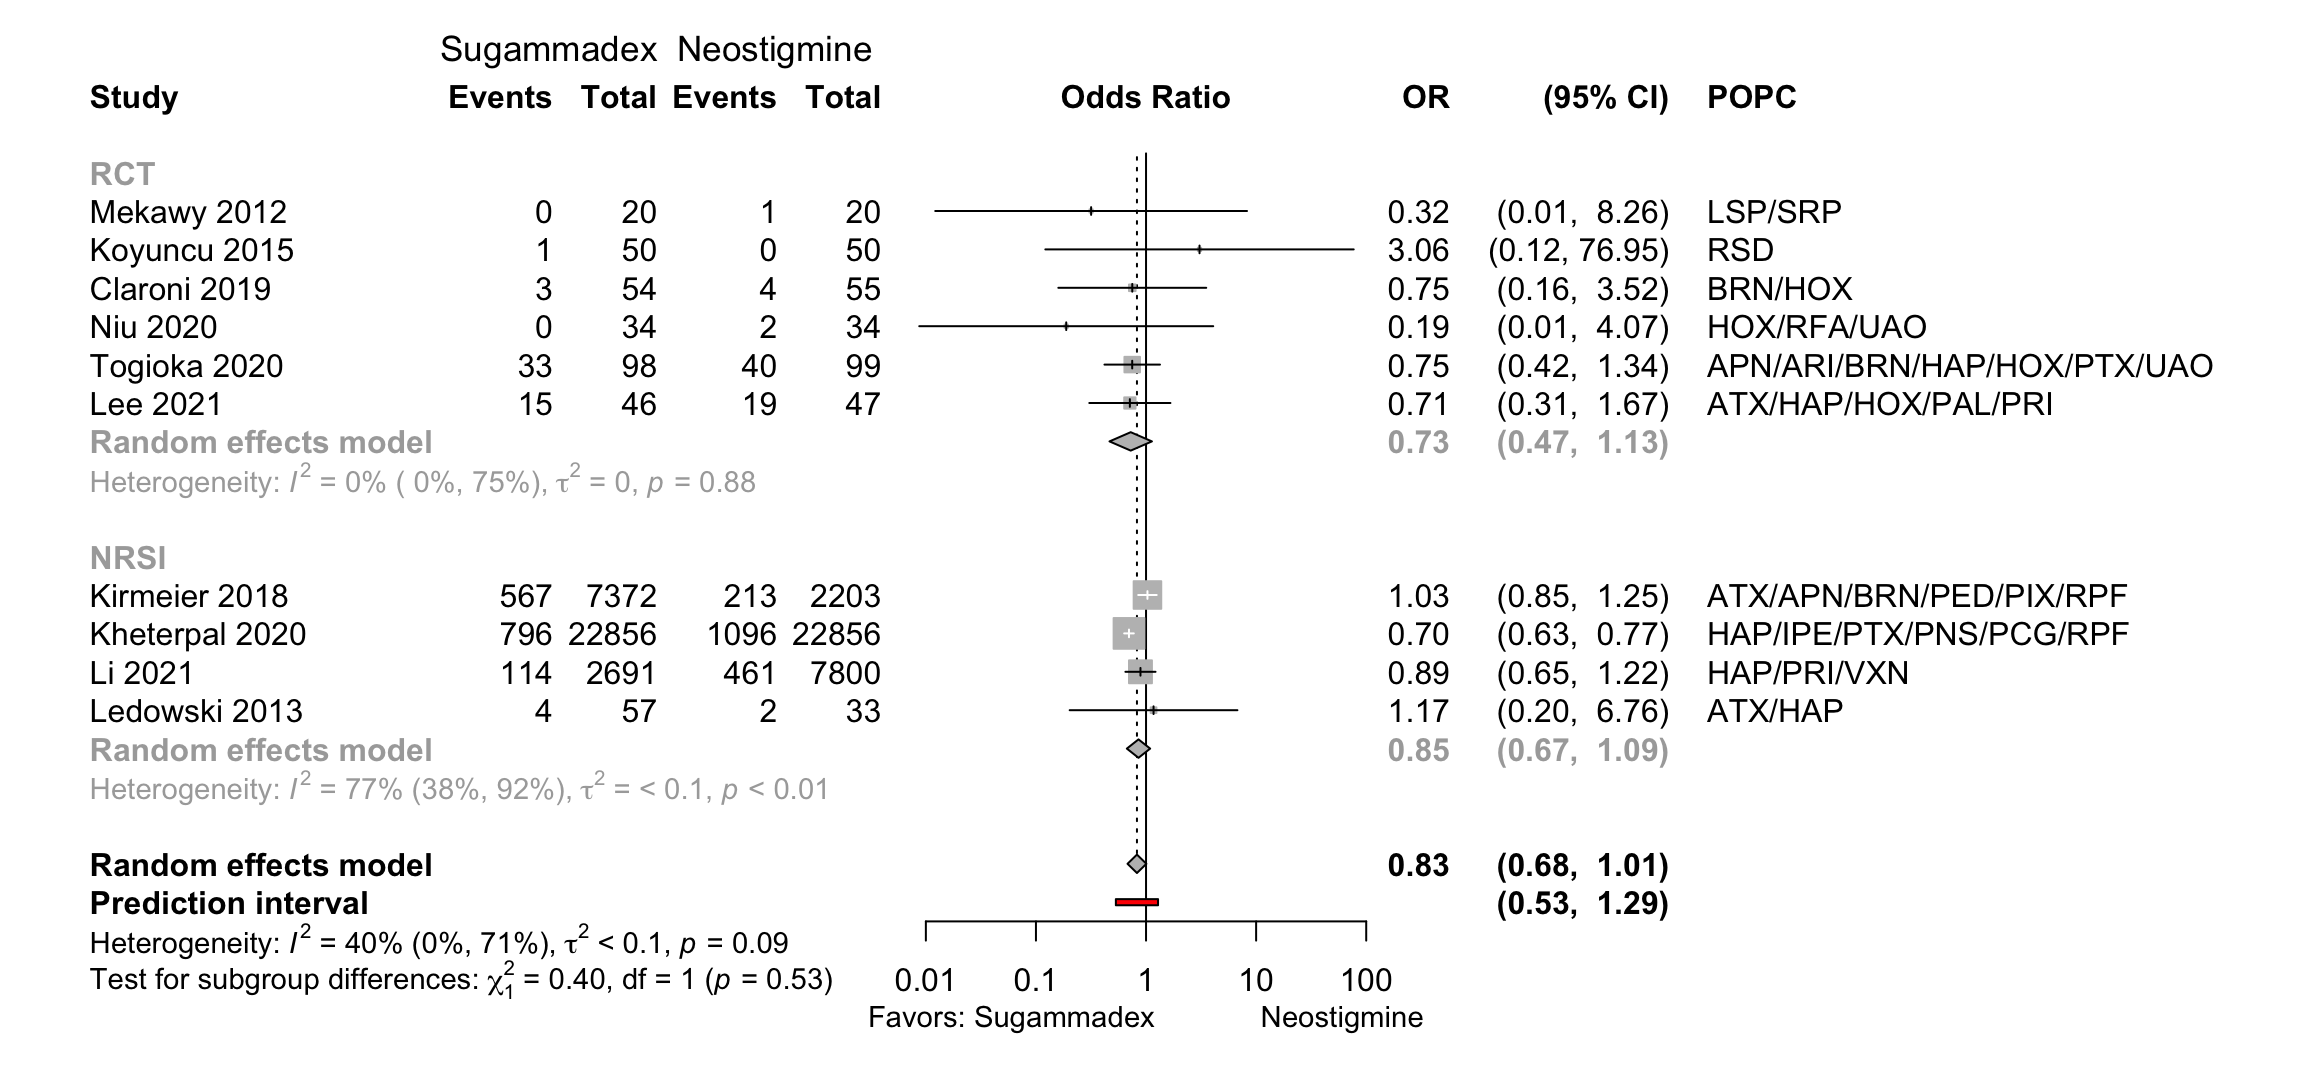
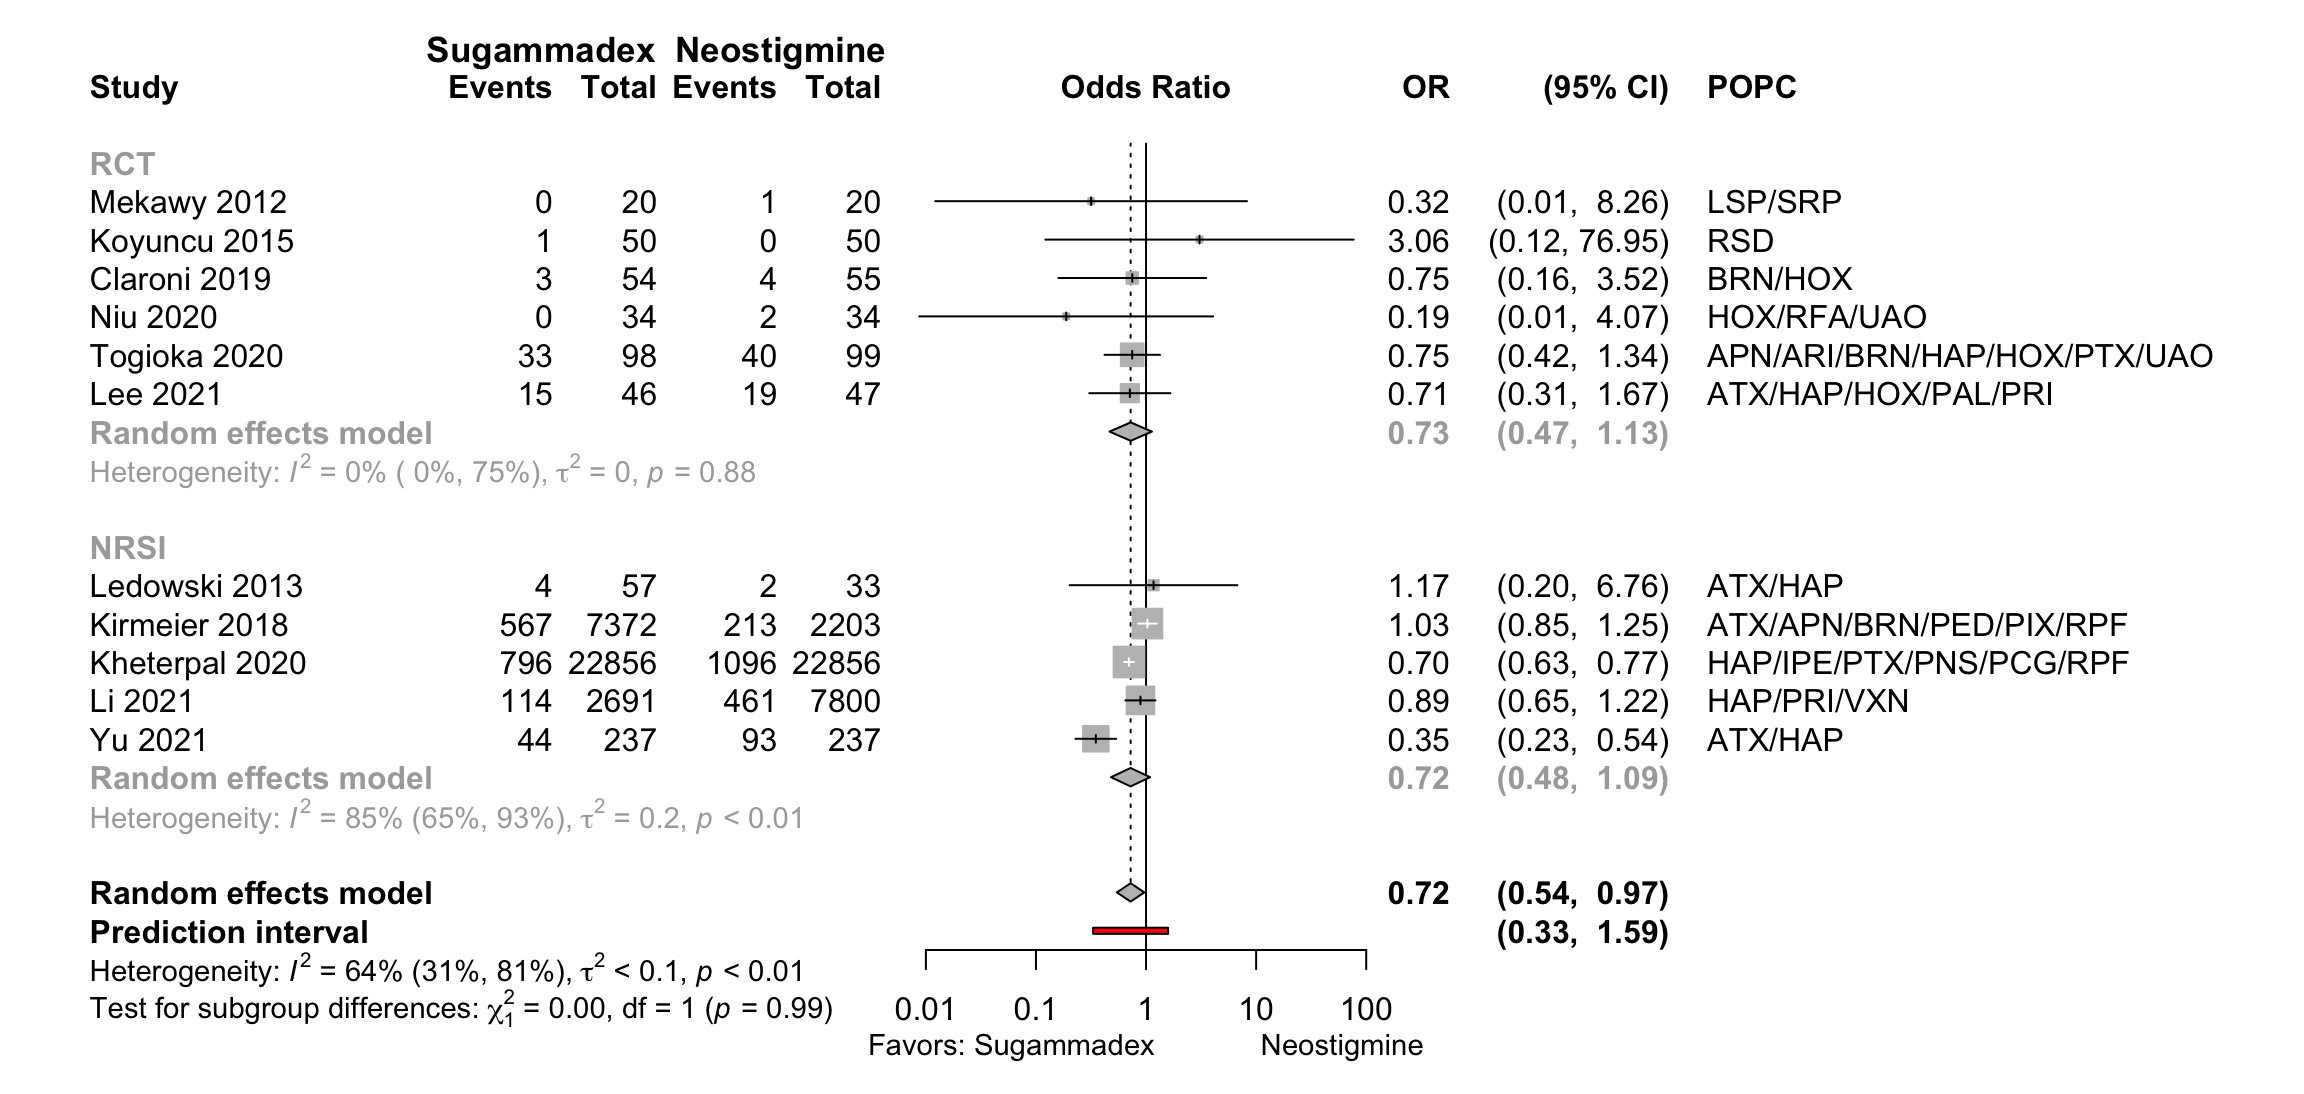
add pneumonia update composite

diff --git a/docs/reversal.html b/docs/reversal.html
@@ -419,7 +419,7 @@ div.tocify {
 
 
 <h1 class="title toc-ignore">Reversal</h1>
-<h4 class="date">10 March, 2022 (09:58)</h4>
+<h4 class="date">10 March, 2022 (12:36)</h4>
 
 </div>
 
@@ -582,15 +582,15 @@ project makes it easier to run your code on other machines.</p>
 <div class="panel panel-default">
 <div class="panel-heading">
 <p class="panel-title">
-<a data-toggle="collapse" data-parent="#workflowr-checks" href="#strongRepositoryversionstrongahrefhttpsgithubcommdgrantNMBtree5b94d90150cd4ffb7d3f4b1e68433343cc4ec671targetblank5b94d90a">
+<a data-toggle="collapse" data-parent="#workflowr-checks" href="#strongRepositoryversionstrongahrefhttpsgithubcommdgrantNMBtreedbfe600ddfad6d0024991e5372a578eb8b8f9cdftargetblankdbfe600a">
 <span class="glyphicon glyphicon-ok text-success"
 aria-hidden="true"></span> <strong>Repository version:</strong>
-<a href="https://github.com/mdgrant/NMB/tree/5b94d90150cd4ffb7d3f4b1e68433343cc4ec671" target="_blank">5b94d90</a>
+<a href="https://github.com/mdgrant/NMB/tree/dbfe600ddfad6d0024991e5372a578eb8b8f9cdf" target="_blank">dbfe600</a>
 </a>
 </p>
 </div>
 <div
[2 lines of base64/hex data omitted]
 class="panel-collapse collapse">
 <div class="panel-body">
 <p>
@@ -600,7 +600,7 @@ reproducibility.
 </p>
 <p>
 The results in this page were generated with repository version
-<a href="https://github.com/mdgrant/NMB/tree/5b94d90150cd4ffb7d3f4b1e68433343cc4ec671" target="_blank">5b94d90</a>.
+<a href="https://github.com/mdgrant/NMB/tree/dbfe600ddfad6d0024991e5372a578eb8b8f9cdf" target="_blank">dbfe600</a>.
 See the <em>Past versions</em> tab to see a history of the changes made
 to the R Markdown and HTML files.
 </p>
@@ -688,6 +688,40 @@ Message
 </tr>
 </thead>
 <tbody>
+<tr>
+<td>
+Rmd
+</td>
+<td>
+<a href="https://github.com/mdgrant/NMB/blob/3872bc14ab8ea45f2656e177be678c9d52201d3b/analysis/reversal.Rmd" target="_blank">3872bc1</a>
+</td>
+<td>
+mdgrant
+</td>
+<td>
+2022-03-10
+</td>
+<td>
+add popc meta
+</td>
+</tr>
+<tr>
+<td>
+html
+</td>
+<td>
+<a href="https://rawcdn.githack.com/mdgrant/NMB/3872bc14ab8ea45f2656e177be678c9d52201d3b/docs/reversal.html" target="_blank">3872bc1</a>
+</td>
+<td>
+mdgrant
+</td>
+<td>
+2022-03-10
+</td>
+<td>
+add popc meta
+</td>
+</tr>
 <tr>
 <td>
 Rmd
@@ -23806,8 +23840,8 @@ mdgrant
 <p><br/></p>
 </div>
 </div>
-<div id="postoperative-pulmonary-complications" class="section level2">
-<h2><em> Postoperative Pulmonary Complications</em></h2>
+<div id="pulmonary-complications" class="section level2">
+<h2><em> Pulmonary Complications</em></h2>
 <p><a id="revTab23"></a></p>
 <div id="hypoxia-adults" class="section level3">
 <h3> Hypoxia (adults)</h3>
@@ -25767,7 +25801,7 @@ NS
 style="display: inline-block; unicode-bidi: plaintext; background: linear-gradient(270deg, transparent  92.31% , #76d7c4 92.31% , #76d7c4 100.00% , transparent 100.00% ); width: 100%"> </span>
 </td>
 </tr>
-<tr grouplength="4">
+<tr grouplength="6">
 <td colspan="7" style="border-top: 1px solid;color: black !important;background-color: #EBEBEB !important;">
 <strong>Retrospective Cohort</strong>
 </td>
@@ -25864,6 +25898,53 @@ ns
 style="display: inline-block; unicode-bidi: plaintext; background: linear-gradient(270deg, transparent  96.52% , #76d7c4 96.52% , #76d7c4 100.00% , transparent 100.00% ); width: 100%"> </span>
 </td>
 </tr>
+<tr>
+<td style="text-align:left;width: 10em; ">
+Yu 2021
+</td>
+<td style="text-align:left;width: 6em; ">
+237
+</td>
+<td style="text-align:left;width: 8em; ">
+<span style="     color: #7fb3d5 !important;">Neo</span>
+</td>
+<td style="text-align:left;">
+0.04
+</td>
+<td style="text-align:left;width: 8em; ">
+shall
+</td>
+<td style="text-align:left;width: 11em; ">
+93 (39.2)
+</td>
+<td style="text-align:left;width: 10em; ">
+<span
+style="display: inline-block; unicode-bidi: plaintext; background: linear-gradient(270deg, transparent  60.76% , #7fb3d5 60.76% , #7fb3d5 100.00% , transparent 100.00% ); width: 100%"> </span>
+</td>
+</tr>
+<tr>
+<td style="text-align:left;width: 10em; ">
+</td>
+<td style="text-align:left;width: 6em; ">
+237
+</td>
+<td style="text-align:left;width: 8em; ">
+<span style="     color: #76d7c4 !important;">Sug</span>
+</td>
+<td style="text-align:left;">
+2
+</td>
+<td style="text-align:left;width: 8em; ">
+mod
+</td>
+<td style="text-align:left;width: 11em; ">
+44 (18.6)
+</td>
+<td style="text-align:left;width: 10em; ">
+<span
+style="display: inline-block; unicode-bidi: plaintext; background: linear-gradient(270deg, transparent  81.43% , #76d7c4 81.43% , #76d7c4 100.00% , transparent 100.00% ); width: 100%"> </span>
+</td>
+</tr>
 </tbody>
 <tfoot>
 <tr>
@@ -25875,18 +25956,56 @@ shall: shallow; min: minimal; oth: other
 </tfoot>
 </table>
 <p><br/></p>
+<p><a id="revFig22"></a></p>
 </div>
 <div id="pooled-6" class="section level3">
 <h3>    <em>Pooled</em></h3>
 <p><br/></p>
 <p><font size = 4> Figure 22. Pooled incidence of postoperative
 pulmonary complications in randomized and nonrandomized studies, and
-component endpoints included in each study’s defintion. </font></p>
-<p><img src="figure/reversal.Rmd/compositeMeta-1.png" width="1152" style="display: block; margin: auto auto auto 0;" />
-Results from 3 nonrandomized studies adjusted (Li 2021 using propensity
-scores, Kirmeir 2018 multivariable regression with a likely sufficient
-set of deconfounders, and Kheterpal 2020 in a matched cohort
-design).</p>
+component endpoints included in each study’s definition. </font></p>
+<p><img src="figure/reversal.Rmd/compositeMeta-1.png" width="1152" style="display: block; margin: auto auto auto 0;" /></p>
+<p>
+<button type="button" class="btn btn-default btn-xs btn-workflowr btn-workflowr-fig" data-toggle="collapse" data-target="#fig-compositeMeta-1">
+Past versions of compositeMeta-1.png
+</button>
+</p>
+<div id="fig-compositeMeta-1" class="collapse">
+<div class="table-responsive">
+<table class="table table-condensed table-hover">
+<thead>
+<tr>
+<th>
+Version
+</th>
+<th>
+Author
+</th>
+<th>
+Date
+</th>
+</tr>
+</thead>
+<tbody>
+<tr>
+<td>
+<a href="https://github.com/mdgrant/NMB/blob/dbfe600ddfad6d0024991e5372a578eb8b8f9cdf/docs/figure/reversal.Rmd/compositeMeta-1.png" target="_blank">dbfe600</a>
+</td>
+<td>
+mdgrant
+</td>
+<td>
+2022-03-10
+</td>
+</tr>
+</tbody>
+</table>
+</div>
+</div>
+<p>Results from 3 nonrandomized studies adjusted for potential
+confounding (Kirmeir 2018 multivariable regression with a likely
+sufficient set of deconfounders, Li 2021 and Yu 2021 propensity scores,
+and Kheterpal 2020 matched cohort design).</p>
 <p>POPC: postoperative pulmonary complications; NRSI: nonrandomized
 study of interventions; APN: Aspiration pneumonitis; ARI: Acute
 Respiratory Insufficiency; ATX: Atelectasis; BRN: Broncospasm; HAP:
@@ -26549,6 +26668,17 @@ shall: shallow; min: minimal; oth: other
 </tfoot>
 </table>
 <p><br/></p>
+<p><a id="revFig23"></a></p>
+</div>
+<div id="pooled-7" class="section level3">
+<h3>    <em>Pooled</em></h3>
+<p><br/></p>
+<p><font size = 4> Figure 26. Pooled incidence of postoperative
+pneumonia in randomized and nonrandomized studies. </font></p>
+<p><img src="figure/reversal.Rmd/pneumoniaMeta-1.png" width="960" style="display: block; margin: auto auto auto 0;" />
+Results from 3 nonrandomized studies adjusted for potential confounding
+(Li 2021 and Yu 2021 propensity scores, Kheterpal 2020 matched cohort
+design).</p>
 <p><a id="revTab26"></a></p>
 </div>
 <div id="respiratory-failure-adults" class="section level3">
@@ -44662,12 +44792,12 @@ source or author conflicts of interest.
 <div id="rcts-clinical-outcomes" class="section level3">
 <h3><em>RCTs Clinical Outcomes</em></h3>
 <p><br></p>
-<p><font size = 4> Figure 26. Summary risk of bias appraisal for
+<p><font size = 4> Figure 27. Summary risk of bias appraisal for
 included RCTs reporting RNMB. </font></p>
 <p><img src="assets/reversal_rnmb_rob_clin_out.svg" style="width:750px;" align="left"/></p>
 <p><br clear="all" /></p>
 <p><br/></p>
-<p><font size = 4> Figure 27. Individual study risk of bias appraisal
+<p><font size = 4> Figure 28. Individual study risk of bias appraisal
 for reporting RNMB. </font></p>
 <p><img src="assets/reversal_rnmb_clin_out_traffic.svg" style="width:650px;" align="left"/></p>
 <p><br clear="all" /></p>
@@ -44676,14 +44806,14 @@ for reporting RNMB. </font></p>
 <div id="nonrandomized-studies-of-interventions" class="section level3">
 <h3><em>Nonrandomized Studies of Interventions</em></h3>
 <p><br></p>
-<p><font size = 4> Figure 28. Summary risk of bias appraisal for
+<p><font size = 4> Figure 29. Summary risk of bias appraisal for
 included nonrandomized studies <a
 href="https://www.bmj.com/content/355/bmj.i4919">ROBINS-I</a>.
 </font></p>
 <p><img src="assets/reversal_robins_summary.svg" style="width:750px;" align="left"/></p>
 <p><br clear="all" /></p>
 <p><br/></p>
-<p><font size = 4> Figure 29. Individual study risk of bias appraisal
+<p><font size = 4> Figure 30. Individual study risk of bias appraisal
 for nonrandomized studies. </font></p>
 <p><img src="assets/reversal_robins_traffic.svg" style="width:650px;" align="left"/></p>
 <p><br clear="all" /></p>
